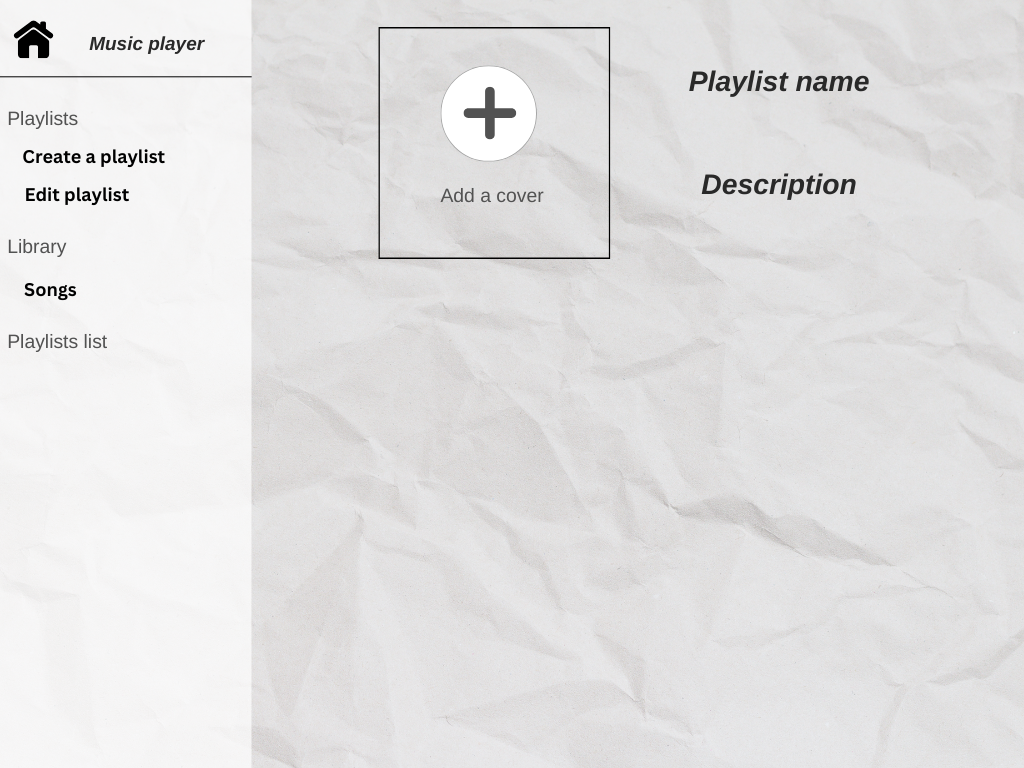
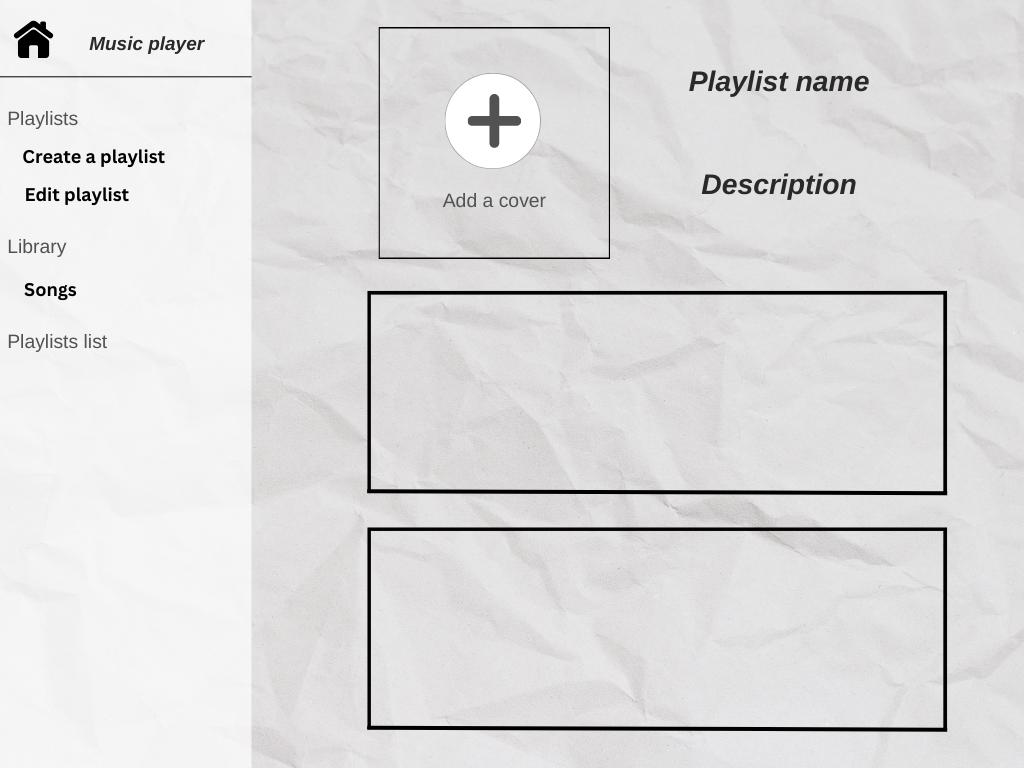
*Breaths in* *Breaths out* I fixed some stuff and now were good

diff --git a/main.py b/main.py
@@ -19,94 +19,63 @@ def main(page: ft.Page):
     # page.scroll = True
     page.window.resizable = False
 
-    def homeScreen():
-        lobbyDesing.src=get_asset_path("music player.png")
-        playlistCoverButton.visible = False
-        playlistNameButton.visible = False
-        playlistDescriptionButton.visible = False
-        playlistSaveButton.visible = False
-        playlistSongsList.visible = False
-        addSongButton.visible = True
-        playButton.visible = True
-        slider.visible = True
-        rewindButton.visible = True
-        forwardButton.visible = True
-        shuffleButton.visible = True
-        playButtonPlaylist.visible = False
-        shuffleButtonPlaylist.visible = False
-        coverImagePlaylist.visible = False
-        songsQuantity.visible = False
-        coverImage.visible = False
-        playListSongs.visible = False
-        librarySongs.visible = False
+    songs_table = ft.DataTable(
+        columns=[
+            ft.DataColumn(ft.Text("Song name", style=ft.TextStyle(color=ft.colors.WHITE), width=490)),
+            ft.DataColumn(ft.Text("Delete", style=ft.TextStyle(color=ft.colors.WHITE))),
+        ],
+        left=300,
+        top=275,
+        heading_row_color="black",
+        visible=False
+    )
+
+    def songs_table_load():
+        songs_table.rows.clear()
+        for root, dirs, files in os.walk("Songs"):
+            for file in files:
+                file_name, _ = os.path.splitext(file) 
+                songs_table.rows.append(
+                    ft.DataRow(cells=[
+                        ft.DataCell(ft.Text(file_name, style=ft.TextStyle(color=ft.colors.BLUE))), 
+                        ft.DataCell(ft.Text("Delete", style=ft.TextStyle(color=ft.colors.BLUE))),
+                    ])
+                )
+        page.update()
+    
+    songs_table_load()
+
+
+    def fetch_list_of_songs():
+        pass
+
+    def make_everything_invisible():
+        coverImagePlaylist.visible = playlistSongsList.visible = playListSongs.visible = librarySongs.visible = songs_table.visible = PauseButton.visible = coverImage.visible = addplaylistButton.visible = playButton.visible = slider.visible = rewindButton.visible = forwardButton.visible = shuffleButton.visible = playButtonPlaylist.visible = shuffleButtonPlaylist.visible = songsQuantity.visible = playlistCoverButton.visible = playlistNameButton.visible = playlistDescriptionButton.visible = playlistSaveButton.visible = False
+        page.update()
+    
+    def homeScreen(e):
+        lobbyDesign.src=get_asset_path("music player.png")
+        make_everything_invisible()
+        addplaylistButton.visible = playButton.visible = slider.visible = rewindButton.visible = forwardButton.visible = shuffleButton.visible = True
         page.update()
 
-    def playlistScreen():
-        lobbyDesing.src=get_asset_path("playlistScreen.png")
-        playButtonPlaylist.visible = True
-        shuffleButtonPlaylist.visible = True
-        coverImagePlaylist.visible = True
-        songsQuantity.visible = True
-        playlistSongsList.visible = True
-        playlistCoverButton.visible = False
-        playlistNameButton.visible = False
-        playlistDescriptionButton.visible = False
-        playlistSaveButton.visible = False
-        addSongButton.visible = False
-        playButton.visible = False
-        PauseButton.visible = False
-        slider.visible = False
-        rewindButton.visible = False
-        forwardButton.visible = False
-        shuffleButton.visible = False
-        coverImage.visible = False
-        playListSongs.visible = False
-        librarySongs.visible = False
+    def playlistScreen(e):
+        lobbyDesign.src=get_asset_path("playlistScreen.png")
+        make_everything_invisible()
+        playButtonPlaylist.visible = shuffleButtonPlaylist.visible = coverImagePlaylist.visible = songsQuantity.visible = playlistSongsList.visible = True
         
         page.update()
 
-    def createPlaylistScreen():
-        lobbyDesing.src=get_asset_path("createPlaylist.png")
-        playlistCoverButton.visible = True
-        playlistNameButton.visible = True
-        playlistDescriptionButton.visible = True
-        playlistSaveButton.visible = True
-        playListSongs.visible = True
-        librarySongs.visible = True
-        addSongButton.visible = False
-        playButton.visible = False
-        PauseButton.visible = False
-        slider.visible = False
-        rewindButton.visible = False
-        forwardButton.visible = False
-        shuffleButton.visible = False
-        playButtonPlaylist.visible = False
-        shuffleButtonPlaylist.visible = False
-        coverImagePlaylist.visible = False
-        songsQuantity.visible = False
-        playlistSongsList.visible = False
+    def createPlaylistScreen(e):
+        lobbyDesign.src=get_asset_path("createPlaylist.png")
+        make_everything_invisible()
+        playlistCoverButton.visible = playlistNameButton.visible = playlistDescriptionButton.visible = playlistSaveButton.visible = playListSongs.visible = librarySongs.visible = True
         page.update()
 
     def editPlaylistScreen():
-        lobbyDesing.src = get_asset_path("editPlaylist.png")
-        playlistCoverButton.visible = True
-        playlistNameButton.visible = True
-        playlistDescriptionButton.visible = True
-        playlistSaveButton.visible = True
-        playListSongs.visible = True
-        librarySongs.visible = True
-        addSongButton.visible = False
-        playButton.visible = False
-        PauseButton.visible = False
-        slider.visible = False
-        rewindButton.visible = False
-        forwardButton.visible = False
-        shuffleButton.visible = False
-        playButtonPlaylist.visible = False
-        shuffleButtonPlaylist.visible = False
-        coverImagePlaylist.visible = False
-        songsQuantity.visible = False
-        playlistSongsList.visible = False
+        lobbyDesign.src = get_asset_path("editPlaylist.png")
+        make_everything_invisible()
+        playlistCoverButton.visible = playlistNameButton.visible = playlistDescriptionButton.visible = playlistSaveButton.visible = playListSongs.visible = librarySongs.visible = True
         page.update()
 
     # def createPlaylistClicked(e):
@@ -122,8 +91,11 @@ def main(page: ft.Page):
         pass
 
     def songsClicked(e):
-        print("Add button clicked")
-        pass
+        lobbyDesign.src=get_asset_path("songsScreen.png")
+        make_everything_invisible()
+        songs_table.visible = True
+        songs_table_load()
+        page.update()
 
     def playlistCoverClicked(e, page, playlistCoverButton, coverImage):
         print("choose the album cover")
@@ -171,8 +143,8 @@ def main(page: ft.Page):
         pass
         
     #? On the Home Screen
-    lobbyDesing = ft.Image(src=get_asset_path("music player.png"))
-    addSongButton = ft.Container(bgcolor="transparent",width=200,height=193,left=257,top=167,padding=10,on_click=songsClicked) # The + Square at home-screen
+    lobbyDesign = ft.Image(src=get_asset_path("music player.png"))
+    addplaylistButton = ft.Container(bgcolor="transparent",width=200,height=193,left=257,top=167,padding=10,on_click=createPlaylistScreen) # The + Square at home-screen
     playButton = ft.Container(content=ft.IconButton(icon=ft.icons.PLAY_ARROW,on_click=musicPlay,icon_color="white"),bgcolor="transparent",left=384,top=13,padding=10,visible=True) # The play button in Home
     PauseButton = ft.Container(content=ft.IconButton(icon=ft.icons.PAUSE_SHARP,on_click=musicPause,icon_color="white"),bgcolor="transparent",left=384,top=13,padding=10,visible=False) # The pause button in Home
     shuffleButton = ft.Container(bgcolor="transparent",width=43,height=40,left=265,top=25,padding=10,on_click=shuffle) # The button to shuffle the songs
@@ -182,10 +154,10 @@ def main(page: ft.Page):
 
 
     #? sideBarButtons
-    homeButton = ft.Container(bgcolor="transparent",width=40,height=40,left=13,top=16,padding=10,on_click= lambda _: homeScreen()) # The Home Icon on the sideBar
-    createPlaylistButton = ft.Container(bgcolor="transparent",width=150,height=20,left=20,top=140,padding=10,on_click= lambda _: createPlaylistScreen()) # The button to create the playlist on the home screen
-    editPlaylistButton = ft.Container(bgcolor="transparent",width=100,height=20,left=25,top=180,padding=10,on_click= lambda _: editPlaylistScreen()) # The button to edit the playlist on the home screen
-    songButton = ft.Container(bgcolor="transparent",width=50,height=20,left=25,top=275,padding=10,on_click= lambda _: playlistScreen()) # The songs text in the library
+    homeButton = ft.Container(bgcolor="transparent",width=40,height=40,left=13,top=16,padding=10,on_click=homeScreen) # The Home Icon on the sideBar
+    createPlaylistButton = ft.Container(bgcolor="transparent",width=150,height=20,left=20,top=140,padding=10,on_click=createPlaylistScreen) # The button to create the playlist on the home screen
+    editPlaylistButton = ft.Container(bgcolor="transparent",width=100,height=20,left=25,top=180,padding=10,on_click=editPlaylistClicked) # The button to edit the playlist on the home screen
+    songButton = ft.Container(bgcolor="transparent",width=50,height=20,left=25,top=275,padding=10,on_click=songsClicked) # The songs text in the library
     
 
     #? When creating the playlist
@@ -193,16 +165,9 @@ def main(page: ft.Page):
     coverImage = ft.Image(src="", width=240,height=240,left=366,top=25, visible=False, fit=ft.ImageFit.COVER) #to add a image
     playlistNameButton = ft.Container(content=ft.TextField(color="black",border_color="black"),bgcolor="transparent",left=620,top=95,padding=10,visible=False) # The + Square at home-screen
     playlistDescriptionButton = ft.Container(content=ft.TextField(color="black",border_color="black"),bgcolor="transparent",left=620,top=200,padding=10,visible=False) # Too add a playlist cover when creating the playlist
-    playlistSaveButton = ft.Container(content=ft.ElevatedButton(text="Save Button",on_click= lambda _: homeScreen(),width=400,bgcolor="black", color="white"),bgcolor="transparent",left=480,top=655,padding=10,visible=False) # temporary save button
+    playlistSaveButton = ft.Container(content=ft.ElevatedButton(text="Save Button",on_click=homeScreen,width=400,bgcolor="black", color="white"),bgcolor="transparent",left=480,top=655,padding=10,visible=False) # temporary save button
     playListSongs = ft.Container(width=600,height=170,bgcolor="#E9E8E7",left=330,top=290,padding=10,visible=False)
     librarySongs = ft.Container(width=600,height=170,bgcolor="#E9E8E7",left=330,top=480,padding=10,visible=False)
-
-    #? When editing the playlist
-    playlistCoverButton = ft.Container(bgcolor="transparent",width=222,height=223,left=366,top=25,padding=10,visible=False,on_click=lambda e: playlistCoverClicked(e, page, playlistCoverButton, coverImage)) # Too add a playlist cover when creating the playlist
-    coverImage = ft.Image(src="", width=240,height=240,left=366,top=25, visible=False, fit=ft.ImageFit.COVER) #to add a image
-    playlistNameButton = ft.Container(content=ft.TextField(color="black",border_color="black"),bgcolor="transparent",left=620,top=95,padding=10,visible=False) # The + Square at home-screen
-    playlistDescriptionButton = ft.Container(content=ft.TextField(color="black",border_color="black"),bgcolor="transparent",left=620,top=200,padding=10,visible=False) # Too add a playlist cover when creating the playlist
-    playlistSaveButton = ft.Container(content=ft.ElevatedButton(text="Save Button",on_click= lambda _: homeScreen(),width=400,bgcolor="black", color="white"),bgcolor="transparent",left=480,top=655,padding=10,visible=False) # temporary save button
 
     #? Playing the Playlist 
     playButtonPlaylist = ft.Container(bgcolor="transparent",width=95,height=55,left=645,top=185,padding=10,visible=False) 
@@ -211,68 +176,24 @@ def main(page: ft.Page):
     songsQuantity = ft.Container(content=ft.Text("Number of songs in playlist"),width=95,height=55,left=740,top=265,visible=True)
     playlistSongsList = ft.Container(bgcolor="#E9E8E7",width=579,height=390,left=355,top=314,visible=False)
 
-    designStack = ft.Stack([lobbyDesing,createPlaylistButton,editPlaylistButton,addSongButton,songButton,playlistCoverButton,coverImage,playlistNameButton,playlistDescriptionButton,playlistSaveButton,playButton,PauseButton,slider,homeButton,shuffleButton,rewindButton,forwardButton,playButtonPlaylist,shuffleButtonPlaylist,coverImagePlaylist,songsQuantity,playlistSongsList,playListSongs,librarySongs])
+    designStack = ft.Stack([lobbyDesign,createPlaylistButton,editPlaylistButton,addplaylistButton,songButton,
+    playlistCoverButton,coverImage,playlistNameButton,playlistDescriptionButton,playlistSaveButton,playButton,
+    PauseButton,slider,homeButton,shuffleButton,rewindButton,forwardButton,playButtonPlaylist,shuffleButtonPlaylist,
+    coverImagePlaylist,songsQuantity, songs_table,playlistSongsList,playListSongs,librarySongs])
     
     page.add(designStack)
     page.update()
 
 
 
-    
-    # def on_file_selected(e: ft.FilePickerResultEvent):
-    #     nonlocal audio_player
-    #     if e.files:
-    #         # Allowed music file extensions
-    #         allowed_extensions = {".mp3", ".wav", ".flac", ".aac", ".ogg", ".m4a"}
-    #         file = e.files[0]
-            
-    #         # Validate the file extension
-    #         if not any(file.name.lower().endswith(ext) for ext in allowed_extensions):
-    #             page.add(ft.Text("Invalid file type! Please select a music file."))
-    #             page.update()
-    #             return
 
-    #         # Try to get file bytes if available, otherwise read from file.path
-    #         file_data = None
-    #         if hasattr(file, "bytes"):
-    #             file_data = file.bytes
 
-    #         if file_data is None and file.path:
-    #             try:
-    #                 with open(file.path, "rb") as f:
-    #                     file_data = f.read()
-    #             except Exception as ex:
-    #                 page.add(ft.Text(f"Error reading file: {ex}"))
-    #                 page.update()
-    #                 return
 
-    #         if file_data is not None:
-    #             # Convert the file data to a base64 string and create a data URL
-    #             base64_data = base64.b64encode(file_data).decode("utf-8")
-    #             ext = file.name.lower().rsplit(".", 1)[-1]
-    #             mime = {
-    #                 "mp3": "audio/mpeg",
-    #                 "wav": "audio/wav",
-    #                 "flac": "audio/flac",
-    #                 "aac": "audio/aac",
-    #                 "ogg": "audio/ogg",
-    #                 "m4a": "audio/mp4",
-    #             }.get(ext, "audio/mpeg")
-    #             src = f"data:{mime};base64,{base64_data}"
-    #         else:
-    #             # If we couldn't get the file data, fallback to the file path
-    #             src = file.path
 
-    #         # Remove any previous audio control if present
-    #         if audio_player:
-    #             page.controls.remove(audio_player)
-            
-    #         # Create and add the Audio control that auto-plays the file
-    #         audio_player = ft.Audio(src=src, autoplay=True, controls=True)
-    #         page.add(audio_player)
-    #         page.update()
 
-    # Create the FilePicker and add it to the page overlay
+
+
+
     
     #? file_picker = ft.FilePicker(on_result=on_file_selected)
     #? page.overlay.append(file_picker)

diff --git a/fletaudiotest.py b/fletaudiotest.py
@@ -2,7 +2,7 @@ import flet as ft
 
 def main(page: ft.Page):
     audio1 = ft.Audio(
-        src="/Users/macbook/Documents/PROGRAMS/STEAM/assets/press.wav", autoplay=True
+        src="/Users/macbook/Documents/PROGRAMS/Flet/Music-Organizer/Songs/19-2000.wav", autoplay=True
     )
     page.overlay.append(audio1)
     page.add(
